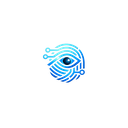
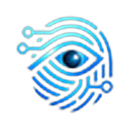
update

Changed region(s): [[0.125, 0.125, 0.9062, 0.9062]]

diff --git a/popup/popup.html b/popup/popup.html
@@ -56,13 +56,13 @@
   --accent:#60a5fa;--accent2:#a78bfa;
   --card-shadow:0 1px 3px rgba(0,0,0,.3);
 }
-body{width:660px;min-width:660px;max-height:600px;overflow-y:auto;background:var(--bg0);color:var(--t1);font-family:var(--sans);font-size:13px;line-height:1.6;transition:background .2s,color .2s}
+body{width:790px;min-width:790px;max-height:600px;overflow-y:auto;background:var(--bg0);color:var(--t1);font-family:var(--sans);font-size:13px;line-height:1.6;transition:background .2s,color .2s}
 body::-webkit-scrollbar{width:6px}body::-webkit-scrollbar-track{background:var(--bg1)}body::-webkit-scrollbar-thumb{background:var(--bdr);border-radius:3px}
 
 /* HEADER */
 .hdr{padding:10px 20px;border-bottom:1px solid var(--bdr);display:flex;align-items:center;justify-content:space-between;position:sticky;top:0;z-index:10;background:var(--bg0)}
 .logo{display:flex;align-items:center;gap:10px}
-.logo-i{width:26px;height:26px;background:linear-gradient(135deg,var(--accent),var(--accent2));border-radius:7px;display:flex;align-items:center;justify-content:center;font-size:10px;font-weight:700;color:#fff;font-family:var(--mono)}
+.logo-i{width:26px;height:26px;border-radius:7px;object-fit:contain}
 .logo-t{font-weight:700;font-size:14px;letter-spacing:-.3px}
 .logo-ver{font-size:9px;color:var(--t3);font-family:var(--mono);background:var(--bg2);padding:2px 6px;border-radius:4px;margin-left:4px}
 .hdr-btns{display:flex;gap:5px}
@@ -111,8 +111,8 @@ body::-webkit-scrollbar{width:6px}body::-webkit-scrollbar-track{background:var(-
 .st-l{font-size:9px;color:var(--t3);text-transform:uppercase;letter-spacing:.4px;margin-top:2px}
 
 /* TABS */
-.tabs{display:flex;flex-wrap:wrap;gap:4px;padding:10px 20px;border-bottom:1px solid var(--bdr);background:var(--bg1)}
-.tab{padding:6px 12px;font-size:11px;font-weight:600;color:var(--t3);cursor:pointer;border-radius:6px;white-space:nowrap;user-select:none;transition:all .15s}
+.tabs{display:flex;gap:4px;padding:10px 14px;border-bottom:1px solid var(--bdr);background:var(--bg1)}
+.tab{padding:5px 9px;font-size:10.5px;font-weight:600;color:var(--t3);cursor:pointer;border-radius:6px;white-space:nowrap;user-select:none;transition:all .15s}
 .tab:hover{color:var(--t2);background:var(--bg2)}
 .tab.active{color:var(--accent);background:var(--bg0);box-shadow:var(--card-shadow);border:1px solid var(--bdr)}
 .tab .b{display:inline-block;min-width:16px;padding:0 5px;height:16px;line-height:16px;border-radius:8px;font-size:10px;font-family:var(--mono);margin-left:4px;background:var(--bg3);color:var(--t3)}
@@ -217,7 +217,7 @@ body::-webkit-scrollbar{width:6px}body::-webkit-scrollbar-track{background:var(-
 </head>
 <body>
 <div class="hdr">
-  <div class="logo"><div class="logo-i">TG</div><div class="logo-t">TraceGlyph</div></div>
+  <div class="logo"><img class="logo-i" src="../icons/icon48.png" alt="TG"><div class="logo-t">TraceGlyph</div></div>
   <div class="hdr-btns">
     <button class="btn-mode" id="btnGhost" title="Ghost mode - block fingerprinting">👻</button>
     <button class="btn-mode" id="btnSpoof" title="Spoof mode - randomize fingerprinting">🎭</button>

diff --git a/popup/popup.js b/popup/popup.js
@@ -18,7 +18,7 @@
 //      - Scope: per-site (current hostname) or global (all sites).
 //      - Persisted via chrome.storage.local keys "tg_mode_global" and
 //        "tg_mode_sites" (object mapping hostname -> mode).
-//      - Mode pushed to content script via chrome.scripting.executeScript()
+//      - Mode pushed to content script via chrome.tabs.sendMessage()
 //        which sets the data-tg-mode attribute on document.documentElement.
 //
 //   3. DATA RETRIEVAL
@@ -168,11 +168,9 @@ function setMode(mode) {
   try {
     chrome.tabs.query({ active: true, currentWindow: true }, function(tabs) {
       if (tabs[0]) {
-        chrome.scripting.executeScript({
-          target: { tabId: tabs[0].id },
-          func: function(m) { document.documentElement.setAttribute('data-tg-mode', m); },
-          args: [mode]
-        }).catch(function(){});
+        chrome.tabs.sendMessage(tabs[0].id, { action: 'setMode', mode: mode }, function() {
+          void chrome.runtime.lastError;
+        });
       }
     });
   } catch(e) {}

diff --git a/content.js b/content.js
@@ -112,6 +112,15 @@
   // Set default immediately (storage callback may be async)
   document.documentElement.setAttribute('data-tg-mode', 'off');
 
+  // Listen for mode changes from popup
+  try {
+    chrome.runtime.onMessage.addListener(function(msg) {
+      if (msg && msg.action === 'setMode' && msg.mode) {
+        document.documentElement.setAttribute('data-tg-mode', msg.mode);
+      }
+    });
+  } catch(e) {}
+
   const script = document.createElement('script');
   script.src = chrome.runtime.getURL('injected.js');
   script.onload = () => script.remove();
